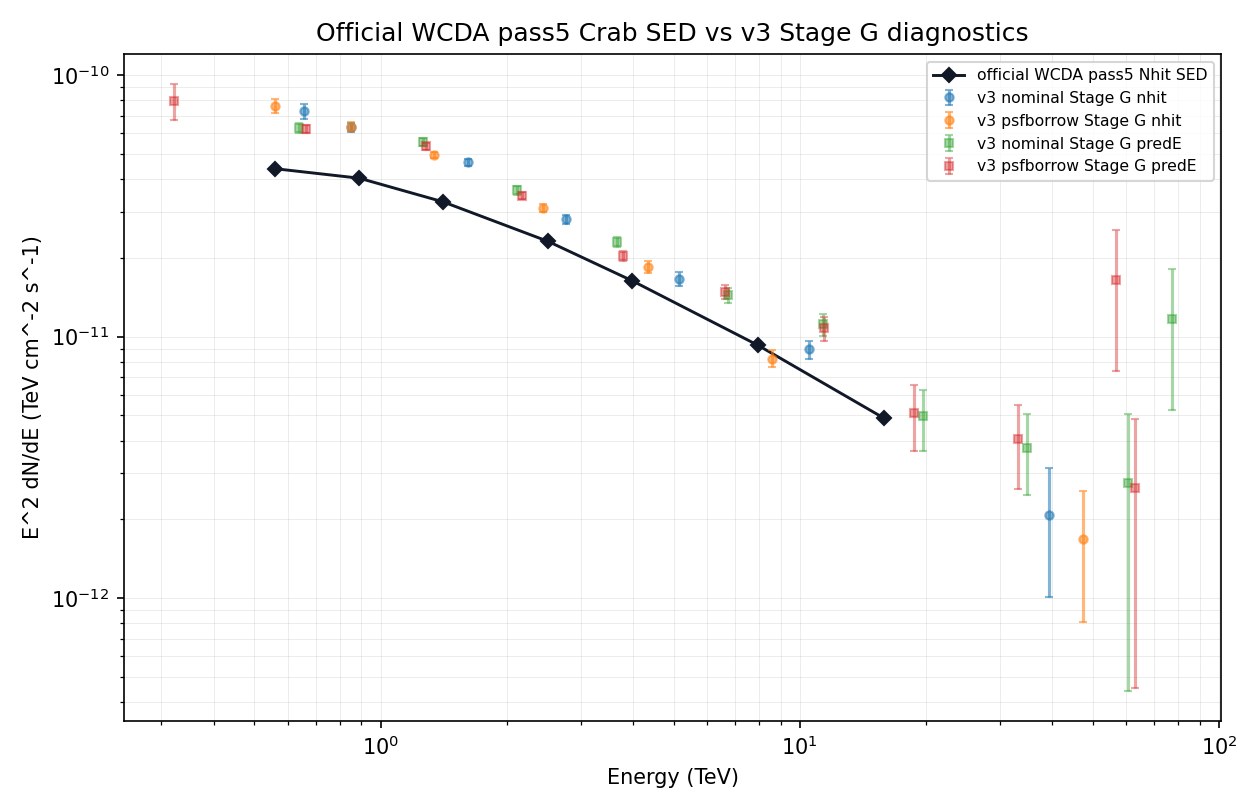
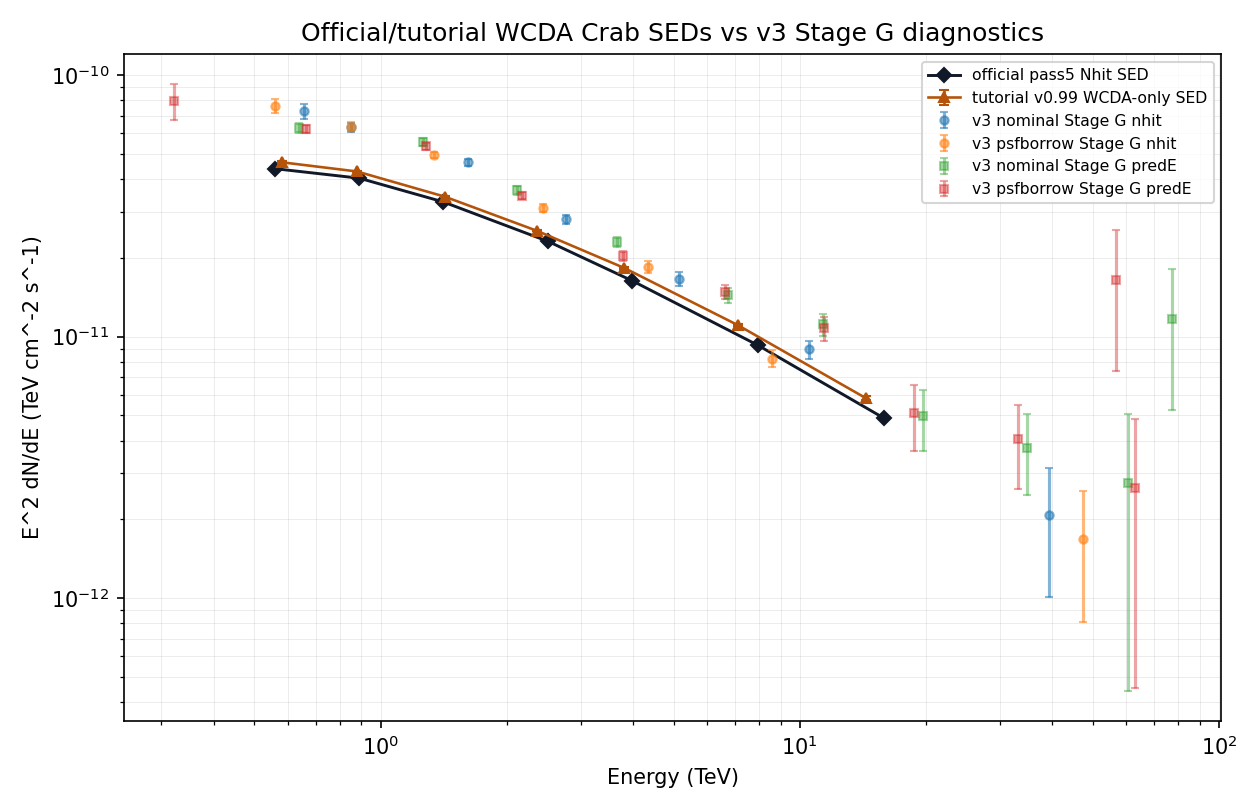
Add tutorial v099 Crab SED to v3 report

diff --git a/apply/report/crab_sed_v3_stage_a_to_g_report.html b/apply/report/crab_sed_v3_stage_a_to_g_report.html
@@ -76,6 +76,12 @@ footer { margin-top:48px; padding-top:18px; border-top:1px solid var(--border); 
       <div class="metric"><div class="label">official pass5 points</div><div class="value">7</div><div class="note">WCDA Nhit SED, 1484.4 days</div></div>
     </div>
     <div class="metric-grid">
+      <div class="metric"><div class="label">tutorial v0.99 points</div><div class="value">7</div><div class="note">WCDA-only SED_Mor Crab_SED</div></div>
+      <div class="metric"><div class="label">tutorial fit cluster</div><div class="value">2832848</div><div class="note">HepJob/HTCondor fit stage</div></div>
+      <div class="metric"><div class="label">tutorial SED cluster</div><div class="value">2832858</div><div class="note">HepJob/HTCondor SED stage</div></div>
+      <div class="metric"><div class="label">tutorial status</div><div class="value">OK</div><div class="note">7 WCDA points, SHA256 verified</div></div>
+    </div>
+    <div class="metric-grid">
       <div class="metric"><div class="label">background systematics</div><div class="value">6</div><div class="note">annulus/order variants</div></div>
       <div class="metric"><div class="label">high-energy predE points</div><div class="value">5</div><div class="note">Stage G high-energy groups</div></div>
       <div class="metric"><div class="label">highest E_eff</div><div class="value">73.82</div><div class="note">TeV, response-weighted</div></div>
@@ -225,6 +231,15 @@ footer { margin-top:48px; padding-top:18px; border-top:1px solid var(--border); 
   </section>
 
   <section>
+    <h2>Tutorial v0.99 WCDA-Only SED</h2>
+    <div class="callout">
+      The second tutorial route <code>v0.99</code> produced seven WCDA-only Crab SED points from <code>results/SED_Mor/Crab_SED.txt</code>. The transferred table reports <code>energy flux ferrL ferrU TS WCDAtag</code>; the flux scale matches <code>E^2 dN/dE</code> in units of <code>1e-14 TeV cm^-2 s^-1</code>, so this report stores the raw scaled values and converts them to physical <code>E^2 dN/dE</code> for overlays. All points are WCDA tagged and Crab component/bin/flux-point validation is OK; ROOT output opens and SHA256 verification passed.
+    </div>
+    <p>Package: <code>/home/lhaaso/liushijie/energy/wcda_crab_sed_v099_20250731_20260616_123624/final_wcda_crab_sed_v099_20250731.tar.gz</code>. Fit cluster: <code>2832848</code>; SED cluster: <code>2832858</code>. README warnings for <code>Halo_2_Ecut</code> and <code>Halo_2_F0</code> are boundary/upper-limit related and do not affect the listed Crab SED/TS status.</p>
+    <div class="table-wrap"><table><thead><tr><th>E TeV</th><th>E2 flux raw</th><th>E2 dN/dE</th><th>err low</th><th>err high</th><th>TS</th><th>WCDAtag</th><th>status</th></tr></thead><tbody><tr><td>0.581</td><td>4642.68</td><td>4.6427e-11</td><td>4.4084e-13</td><td>4.4084e-13</td><td>11740</td><td>1</td><td>ok</td></tr><tr><td>0.879</td><td>4280.92</td><td>4.2809e-11</td><td>2.3824e-13</td><td>2.3824e-13</td><td>37587</td><td>1</td><td>ok</td></tr><tr><td>1.423</td><td>3429.83</td><td>3.4298e-11</td><td>1.3369e-13</td><td>1.3369e-13</td><td>1.06355e+05</td><td>1</td><td>ok</td></tr><tr><td>2.361</td><td>2538.75</td><td>2.5388e-11</td><td>1.4451e-13</td><td>1.4451e-13</td><td>78318</td><td>1</td><td>ok</td></tr><tr><td>3.813</td><td>1830.23</td><td>1.8302e-11</td><td>1.2151e-13</td><td>1.2151e-13</td><td>77558</td><td>1</td><td>ok</td></tr><tr><td>7.106</td><td>1107.71</td><td>1.1077e-11</td><td>1.3309e-13</td><td>1.3309e-13</td><td>33532</td><td>1</td><td>ok</td></tr><tr><td>14.38</td><td>581.427</td><td>5.8143e-12</td><td>1.1811e-13</td><td>1.1811e-13</td><td>12055</td><td>1</td><td>ok</td></tr></tbody></table></div>
+  </section>
+
+  <section>
     <h2>Background Systematics</h2>
     <div class="table-wrap"><table><thead><tr><th>variant</th><th>annulus</th><th>order</th><th>fit family</th><th>B_on</th><th>excess</th><th>sigma</th><th>valid cells</th><th>LogPar phi0</th><th>alpha</th><th>beta</th><th>chi2</th></tr></thead><tbody><tr><td>nominal_shifted_order2</td><td>PSF-shifted</td><td>2</td><td>weighted_least_squares</td><td>92981.3</td><td>17562.7</td><td>55.912</td><td>27</td><td>3.178959e-12</td><td>2.7382</td><td>0.12023</td><td>220.95</td></tr><tr><td>default_annulus_order2</td><td>1.5-3.5 deg</td><td>2</td><td>weighted_least_squares</td><td>93020.5</td><td>17523.5</td><td>55.78</td><td>27</td><td>3.156252e-12</td><td>2.7316</td><td>0.11566</td><td>226.11</td></tr><tr><td>shifted_annulus_order2</td><td>PSF-shifted</td><td>2</td><td>weighted_least_squares</td><td>92981.3</td><td>17562.7</td><td>55.912</td><td>27</td><td>3.178959e-12</td><td>2.7382</td><td>0.12023</td><td>220.95</td></tr><tr><td>default_annulus_order1</td><td>1.5-3.5 deg</td><td>1</td><td>weighted_least_squares</td><td>91826.7</td><td>18717.3</td><td>59.83</td><td>27</td><td>3.136519e-12</td><td>2.7405</td><td>0.09707</td><td>249.65</td></tr><tr><td>shifted_annulus_order1</td><td>PSF-shifted</td><td>1</td><td>weighted_least_squares</td><td>91309.6</td><td>19234.4</td><td>61.595</td><td>27</td><td>3.124701e-12</td><td>2.7422</td><td>0.088671</td><td>271.62</td></tr><tr><td>shifted_annulus_log_link_order2</td><td>PSF-shifted</td><td>2</td><td>poisson_log_link_positive</td><td>96536.9</td><td>14007.1</td><td>44.053</td><td>27</td><td>2.737911e-12</td><td>2.7917</td><td>0.12729</td><td>110.91</td></tr></tbody></table></div>
     <p>High-energy predE groups: <code>[4.0,4.25), [4.25,4.5), [4.5,4.75), [4.75,5.0), [5,6)</code></p>
@@ -253,7 +268,7 @@ footer { margin-top:48px; padding-top:18px; border-top:1px solid var(--border); 
     <div class="callout">
       图表读法：candidate-grid 图通常按行显示 Nhit bin、按列显示 predE bin；白色圆圈表示 <code>rho=6 deg</code> fiducial ROI，中心标记是 Crab。空白或破碎 panel 通常来自 excluded diagnostic/probe cells 的零统计或低统计，不代表 baseline fit cells 全部失败。先看 counts 和 training mask，再看 fitted background、annulus residual，最后看 excess 和 Stage F/G 结果。
     </div>
-    <div class="figure-grid"><figure class="wide"><img src="assets/v3-cell-selection/v3_cell_selection_matrix.png" alt="v3 cell selection matrix"><figcaption><strong>v3 cell selection matrix</strong><span class="figure-note">Rows are Nhit bins and columns are predE bins. The colors separate baseline fit cells, systematics/probe cells, and cells excluded by prefit MC/response rules; this is the selector freeze audit, not a Crab-excess driven selection.</span></figcaption></figure><figure class="wide"><img src="assets/v3-cell-selection/v3_mc_true_energy_overlay.png" alt="MC normalized true-energy distribution overlay"><figcaption><strong>MC normalized true-energy distribution overlay</strong><span class="figure-note">Each colored curve is the normalized MC true-energy distribution for one v3 predE bin. Use it to see energy overlap, median shifts, and whether the mixed binning gives sensible true-energy coverage.</span></figcaption></figure><figure class="wide"><img src="assets/v3-cell-selection/v3_central99_mask.png" alt="MC central-99% selection mask"><figcaption><strong>MC central-99% selection mask</strong><span class="figure-note">This shows which Nhit x predE cells fall inside the MC reconstructed-energy central-99% population. It is the first prefit selector cut and does not use Crab excess or fit residuals.</span></figcaption></figure><figure class="wide"><img src="assets/v3-cell-selection/v3_mc_occupancy_ridge_fraction.png" alt="MC occupancy ridge fraction"><figcaption><strong>MC occupancy ridge fraction</strong><span class="figure-note">Each cell is normalized by the maximum MC count in its Nhit row. The v3 baseline ridge is generated from this prefit occupancy fraction together with central99, MC-count, and high-energy-bin rules; highlighted baseline cells are not chosen from Crab on-source significance.</span></figcaption></figure><figure class="wide"><img src="assets/crab-v3-baseline-fit-cell-skymaps/crab_v3_baseline_fit_counts_grid.png" alt="v3_baseline fit-cell Stage D counts skymap"><figcaption><strong>v3_baseline fit-cell Stage D counts skymap</strong><span class="figure-note">Observed Stage D counts maps for baseline fit cells. The white rho=6 deg circle marks the fiducial ROI and the center marker is Crab; this is the raw spatial distribution before background subtraction.</span></figcaption></figure><figure class="wide"><img src="assets/crab-v3-baseline-fit-cell-skymaps/crab_v3_baseline_fit_excess_grid.png" alt="v3_baseline fit-cell Stage D excess skymap"><figcaption><strong>v3_baseline fit-cell Stage D excess skymap</strong><span class="figure-note">Counts minus the fitted local background for baseline fit cells. A compact positive structure near the center is Crab-like; broad gradients or edge structures point to background-model issues.</span></figcaption></figure><figure class="wide"><img src="assets/crab-v3-baseline-fit-cell-profiles/crab_v3_baseline_fit_ra_normalized_counts_profiles.png" alt="candidate-grid normalized RA-offset counts profiles (v3_baseline fit cells highlighted)"><figcaption><strong>candidate-grid normalized RA-offset counts profiles (v3_baseline fit cells highlighted)</strong><span class="figure-note">For every candidate cell, counts are summed in a |Dec offset|&lt;1 deg band and divided by that cell&#x27;s own peak. Empty panels mean the profile peak is zero or the cell has no usable events in the profile band; highlighted panels are baseline fit cells.</span></figcaption></figure><figure class="wide"><img src="assets/crab-v3-baseline-fit-cell-profiles/crab_v3_baseline_fit_dec_normalized_counts_profiles.png" alt="candidate-grid normalized Dec-offset counts profiles (v3_baseline fit cells highlighted)"><figcaption><strong>candidate-grid normalized Dec-offset counts profiles (v3_baseline fit cells highlighted)</strong><span class="figure-note">For every candidate cell, counts are summed in a |RA offset|&lt;1 deg band and normalized by the cell&#x27;s peak. Compare this with the RA profile to check Dec-direction imbalance and PSF width changes across cells.</span></figcaption></figure><figure class="wide"><img src="assets/crab-v3-baseline-fit-cell-profiles/crab_v3_baseline_fit_ra_normalized_excess_profiles.png" alt="candidate-grid normalized RA-offset excess profiles after background subtraction (v3_baseline fit cells highlighted)"><figcaption><strong>candidate-grid normalized RA-offset excess profiles after background subtraction (v3_baseline fit cells highlighted)</strong><span class="figure-note">Same RA profile diagnostic after subtracting the fitted background. A centered narrow excess is desirable; asymmetric tails indicate residual background or low-stat behavior.</span></figcaption></figure><figure class="wide"><img src="assets/crab-v3-baseline-fit-cell-profiles/crab_v3_baseline_fit_dec_normalized_excess_profiles.png" alt="candidate-grid normalized Dec-offset excess profiles after background subtraction (v3_baseline fit cells highlighted)"><figcaption><strong>candidate-grid normalized Dec-offset excess profiles after background subtraction (v3_baseline fit cells highlighted)</strong><span class="figure-note">Same Dec profile diagnostic after background subtraction. This is the direct check of whether the v3 annulus surface reduces Dec-direction background imbalance around Crab.</span></figcaption></figure><figure class="wide"><img src="../output/stage_d_v3_candidate/runs/v3_stage_d_slurm_42024/roi_counts_grid.png" alt="Stage D counts map grid with rho=6 deg circle"><figcaption><strong>Stage D counts map grid with rho=6 deg circle</strong><span class="figure-note">Observed candidate-grid counts maps. The shared log color scale makes gross background levels comparable across cells, but low-stat cells can look blank because they contain few or no events.</span></figcaption></figure><figure class="wide"><img src="../output/stage_d_v3_candidate/runs/v3_stage_d_slurm_42024/annulus_training_mask_grid.png" alt="Annulus training mask grid"><figcaption><strong>Annulus training mask grid</strong><span class="figure-note">Shows which pixels train the local background surface for each cell. The source/core region is excluded; shifted annuli appear at larger radius for broad-PSF or low-Nhit cells.</span></figcaption></figure><figure class="wide"><img src="../output/stage_d_v3_candidate/runs/v3_stage_d_slurm_42024/roi_background_grid.png" alt="Fitted 2D background surface grid"><figcaption><strong>Fitted 2D background surface grid</strong><span class="figure-note">This is the fitted background expectation, not data and not excess. Stage D fits a quadratic 2D surface on the annulus and extrapolates it across the ROI; smooth surfaces are good, while holes, crescent shapes, or sharp edge features usually flag low-stat or failed diagnostic cells.</span></figcaption></figure><figure class="wide"><img src="../output/stage_d_v3_candidate/runs/v3_stage_d_slurm_42024/annulus_residual_grid.png" alt="Annulus residual grid"><figcaption><strong>Annulus residual grid</strong><span class="figure-note">Residuals in the annulus training region after fitting the background surface. Values should be structureless around zero; coherent RA/Dec patterns mean the quadratic surface is not capturing the local background.</span></figcaption></figure><figure class="wide"><img src="../output/stage_d_v3_candidate/runs/v3_stage_d_slurm_42024/core_background_grid.png" alt="Core extrapolated background grid"><figcaption><strong>Core extrapolated background grid</strong><span class="figure-note">Background expectation restricted to the source/on aperture used for B_on. This view shows exactly what is integrated as background under the Crab region for each cell.</span></figcaption></figure><figure class="wide"><img src="assets/v3-background-systematics/v3_background_before_after_dec_profile.png" alt="Before/after Dec profile comparison for v3 baseline fit cells"><figcaption><strong>Before/after Dec profile comparison for v3 baseline fit cells</strong><span class="figure-note">Compares Dec-direction behavior before and after applying the v3 background method. The goal is to reduce Dec-gradient residuals without erasing the central Crab excess.</span></figcaption></figure><figure class="wide"><img src="assets/v3-background-systematics/v3_background_method_sensitivity_summary.png" alt="Background-method sensitivity summary"><figcaption><strong>Background-method sensitivity summary</strong><span class="figure-note">Compares nominal and alternative background variants such as annulus placement and surface order. Large shifts in flux or sigma indicate background-model systematic risk.</span></figcaption></figure><figure class="wide"><img src="assets/v3-validation/v3_selector_sensitivity_summary.png" alt="Cell-selection sensitivity summary"><figcaption><strong>Cell-selection sensitivity summary</strong><span class="figure-note">Shows how the fit changes under baseline versus expanded/systematic selectors. Stable spectral parameters mean the prefit selector is not driving the result artificially.</span></figcaption></figure><figure class="wide"><img src="assets/v3-validation/v3_response_closure_summary.png" alt="Stage A response histogram self-closure summary"><figcaption><strong>Stage A response histogram self-closure summary</strong><span class="figure-note">Checks whether Stage A response histograms fold back to their MC numerator truth. Large closure errors point to response binning, normalization, or bookkeeping problems.</span></figcaption></figure><figure class="wide"><img src="../output/stage_d_v3_candidate/runs/v3_stage_d_slurm_42024/roi_excess_grid.png" alt="Stage D excess map grid"><figcaption><strong>Stage D excess map grid</strong><span class="figure-note">Candidate-grid counts minus fitted background. Use this after the counts, background, and residual grids: a credible Crab signal should be central and should not be accompanied by annulus residual structure.</span></figcaption></figure><figure><img src="../output/stage_f_v3_baseline/runs/v3_stage_f_slurm_42024/model_counts_vs_excess.png" alt="Stage F model counts vs excess"><figcaption><strong>Stage F model counts vs excess</strong><span class="figure-note">Compares forward-folded model counts to Stage E excess per fit cell. Points far from the one-to-one trend identify cells that dominate chi-square or disagree with the fitted spectrum.</span></figcaption></figure><figure><img src="../output/stage_f_v3_baseline/runs/v3_stage_f_slurm_42024/pull_grid_logpar.png" alt="Stage F pull grid"><figcaption><strong>Stage F pull grid</strong><span class="figure-note">Per-cell fit pull for the preferred spectral model. Random small pulls are expected; coherent regions in Nhit/predE space suggest response, background, or selector systematics.</span></figcaption></figure><figure><img src="../output/stage_g_v3_baseline/runs/v3_stage_g_slurm_42024/sed_points_stage_f_fullarray_pool1.png" alt="Stage G SED points"><figcaption><strong>Stage G SED points</strong><span class="figure-note">Diagnostic SED points built by refitting normalization in reconstructed-energy groups with the Stage F spectral shape fixed. Compare high-energy points with external Crab references and upper limits.</span></figcaption></figure><figure class="wide"><img src="assets/official-pass5/wcda_pass5_vs_v3_stage_g_sed_overlay.png" alt="Official WCDA pass5 SED versus v3 Stage G diagnostics"><figcaption><strong>Official WCDA pass5 SED versus v3 Stage G diagnostics</strong><span class="figure-note">Official WCDA pass5 Nhit SED points from the external LHAASO program overlaid with this report&#x27;s Stage G diagnostic points when local Stage G metadata are available. Official points are shown without error bars because the transferred summary did not include uncertainties.</span></figcaption></figure><figure><img src="../output/stage_g_v3_baseline/runs/v3_stage_g_slurm_42024/sed_points_ratio.png" alt="Stage G SED ratios"><figcaption><strong>Stage G SED ratios</strong><span class="figure-note">Ratio of each diagnostic SED point to the Stage F reference model. A flat ratio near one means Stage G is consistent with the global fit; trends reveal curvature or bin-specific bias.</span></figcaption></figure><figure><img src="../output/stage_g_v3_baseline/runs/v3_stage_g_slurm_42024/sed_point_cell_counts.png" alt="Stage G cell counts per point"><figcaption><strong>Stage G cell counts per point</strong><span class="figure-note">Shows how many cells contribute to each Stage G SED point. High-energy points with few cells should be interpreted more conservatively.</span></figcaption></figure><figure class="wide"><img src="assets/crab-v3-psfborrow-fit-cell-skymaps/crab_v3_psfborrow_fit_counts_grid.png" alt="PSF-borrow fit-cell Stage D counts skymap"><figcaption><strong>PSF-borrow fit-cell Stage D counts skymap</strong><span class="figure-note">Observed counts maps for the PSF borrowing systematic selector. Cells 39/52/65 are included after neighboring-PSF repair, while high-Nhit edge cells 79/80 remain excluded.</span></figcaption></figure><figure class="wide"><img src="assets/crab-v3-psfborrow-fit-cell-skymaps/crab_v3_psfborrow_fit_excess_grid.png" alt="PSF-borrow fit-cell Stage D excess skymap"><figcaption><strong>PSF-borrow fit-cell Stage D excess skymap</strong><span class="figure-note">Counts minus fitted background for the PSF borrowing systematic selector. Compare against the nominal fit-cell excess map to isolate aperture/containment-driven changes.</span></figcaption></figure><figure class="wide"><img src="assets/v3-psfborrow/v3_psfborrow_sed_overlay.png" alt="PSF-borrow versus nominal Stage G SED overlay"><figcaption><strong>PSF-borrow versus nominal Stage G SED overlay</strong><span class="figure-note">Nominal reference Stage G points and PSF borrowing systematic points overlaid. This is a systematic comparison, not a new nominal promotion.</span></figcaption></figure><figure><img src="../output/stage_g_v3_baseline_psfborrow/runs/v3_stage_g_psfborrow_slurm_42029/sed_points_stage_f_fullarray_pool1.png" alt="PSF-borrow Stage G SED points"><figcaption><strong>PSF-borrow Stage G SED points</strong><span class="figure-note">Diagnostic SED points built from the PSF borrowing Stage F spectrum and Stage E signal table.</span></figcaption></figure><figure><img src="../output/stage_g_v3_baseline_psfborrow/runs/v3_stage_g_psfborrow_slurm_42029/sed_points_ratio.png" alt="PSF-borrow Stage G SED ratios"><figcaption><strong>PSF-borrow Stage G SED ratios</strong><span class="figure-note">Ratio of the PSF borrowing diagnostic SED points to the corresponding Stage F reference model.</span></figcaption></figure></div>
+    <div class="figure-grid"><figure class="wide"><img src="assets/v3-cell-selection/v3_cell_selection_matrix.png" alt="v3 cell selection matrix"><figcaption><strong>v3 cell selection matrix</strong><span class="figure-note">Rows are Nhit bins and columns are predE bins. The colors separate baseline fit cells, systematics/probe cells, and cells excluded by prefit MC/response rules; this is the selector freeze audit, not a Crab-excess driven selection.</span></figcaption></figure><figure class="wide"><img src="assets/v3-cell-selection/v3_mc_true_energy_overlay.png" alt="MC normalized true-energy distribution overlay"><figcaption><strong>MC normalized true-energy distribution overlay</strong><span class="figure-note">Each colored curve is the normalized MC true-energy distribution for one v3 predE bin. Use it to see energy overlap, median shifts, and whether the mixed binning gives sensible true-energy coverage.</span></figcaption></figure><figure class="wide"><img src="assets/v3-cell-selection/v3_central99_mask.png" alt="MC central-99% selection mask"><figcaption><strong>MC central-99% selection mask</strong><span class="figure-note">This shows which Nhit x predE cells fall inside the MC reconstructed-energy central-99% population. It is the first prefit selector cut and does not use Crab excess or fit residuals.</span></figcaption></figure><figure class="wide"><img src="assets/v3-cell-selection/v3_mc_occupancy_ridge_fraction.png" alt="MC occupancy ridge fraction"><figcaption><strong>MC occupancy ridge fraction</strong><span class="figure-note">Each cell is normalized by the maximum MC count in its Nhit row. The v3 baseline ridge is generated from this prefit occupancy fraction together with central99, MC-count, and high-energy-bin rules; highlighted baseline cells are not chosen from Crab on-source significance.</span></figcaption></figure><figure class="wide"><img src="assets/crab-v3-baseline-fit-cell-skymaps/crab_v3_baseline_fit_counts_grid.png" alt="v3_baseline fit-cell Stage D counts skymap"><figcaption><strong>v3_baseline fit-cell Stage D counts skymap</strong><span class="figure-note">Observed Stage D counts maps for baseline fit cells. The white rho=6 deg circle marks the fiducial ROI and the center marker is Crab; this is the raw spatial distribution before background subtraction.</span></figcaption></figure><figure class="wide"><img src="assets/crab-v3-baseline-fit-cell-skymaps/crab_v3_baseline_fit_excess_grid.png" alt="v3_baseline fit-cell Stage D excess skymap"><figcaption><strong>v3_baseline fit-cell Stage D excess skymap</strong><span class="figure-note">Counts minus the fitted local background for baseline fit cells. A compact positive structure near the center is Crab-like; broad gradients or edge structures point to background-model issues.</span></figcaption></figure><figure class="wide"><img src="assets/crab-v3-baseline-fit-cell-profiles/crab_v3_baseline_fit_ra_normalized_counts_profiles.png" alt="candidate-grid normalized RA-offset counts profiles (v3_baseline fit cells highlighted)"><figcaption><strong>candidate-grid normalized RA-offset counts profiles (v3_baseline fit cells highlighted)</strong><span class="figure-note">For every candidate cell, counts are summed in a |Dec offset|&lt;1 deg band and divided by that cell&#x27;s own peak. Empty panels mean the profile peak is zero or the cell has no usable events in the profile band; highlighted panels are baseline fit cells.</span></figcaption></figure><figure class="wide"><img src="assets/crab-v3-baseline-fit-cell-profiles/crab_v3_baseline_fit_dec_normalized_counts_profiles.png" alt="candidate-grid normalized Dec-offset counts profiles (v3_baseline fit cells highlighted)"><figcaption><strong>candidate-grid normalized Dec-offset counts profiles (v3_baseline fit cells highlighted)</strong><span class="figure-note">For every candidate cell, counts are summed in a |RA offset|&lt;1 deg band and normalized by the cell&#x27;s peak. Compare this with the RA profile to check Dec-direction imbalance and PSF width changes across cells.</span></figcaption></figure><figure class="wide"><img src="assets/crab-v3-baseline-fit-cell-profiles/crab_v3_baseline_fit_ra_normalized_excess_profiles.png" alt="candidate-grid normalized RA-offset excess profiles after background subtraction (v3_baseline fit cells highlighted)"><figcaption><strong>candidate-grid normalized RA-offset excess profiles after background subtraction (v3_baseline fit cells highlighted)</strong><span class="figure-note">Same RA profile diagnostic after subtracting the fitted background. A centered narrow excess is desirable; asymmetric tails indicate residual background or low-stat behavior.</span></figcaption></figure><figure class="wide"><img src="assets/crab-v3-baseline-fit-cell-profiles/crab_v3_baseline_fit_dec_normalized_excess_profiles.png" alt="candidate-grid normalized Dec-offset excess profiles after background subtraction (v3_baseline fit cells highlighted)"><figcaption><strong>candidate-grid normalized Dec-offset excess profiles after background subtraction (v3_baseline fit cells highlighted)</strong><span class="figure-note">Same Dec profile diagnostic after background subtraction. This is the direct check of whether the v3 annulus surface reduces Dec-direction background imbalance around Crab.</span></figcaption></figure><figure class="wide"><img src="../output/stage_d_v3_candidate/runs/v3_stage_d_slurm_42024/roi_counts_grid.png" alt="Stage D counts map grid with rho=6 deg circle"><figcaption><strong>Stage D counts map grid with rho=6 deg circle</strong><span class="figure-note">Observed candidate-grid counts maps. The shared log color scale makes gross background levels comparable across cells, but low-stat cells can look blank because they contain few or no events.</span></figcaption></figure><figure class="wide"><img src="../output/stage_d_v3_candidate/runs/v3_stage_d_slurm_42024/annulus_training_mask_grid.png" alt="Annulus training mask grid"><figcaption><strong>Annulus training mask grid</strong><span class="figure-note">Shows which pixels train the local background surface for each cell. The source/core region is excluded; shifted annuli appear at larger radius for broad-PSF or low-Nhit cells.</span></figcaption></figure><figure class="wide"><img src="../output/stage_d_v3_candidate/runs/v3_stage_d_slurm_42024/roi_background_grid.png" alt="Fitted 2D background surface grid"><figcaption><strong>Fitted 2D background surface grid</strong><span class="figure-note">This is the fitted background expectation, not data and not excess. Stage D fits a quadratic 2D surface on the annulus and extrapolates it across the ROI; smooth surfaces are good, while holes, crescent shapes, or sharp edge features usually flag low-stat or failed diagnostic cells.</span></figcaption></figure><figure class="wide"><img src="../output/stage_d_v3_candidate/runs/v3_stage_d_slurm_42024/annulus_residual_grid.png" alt="Annulus residual grid"><figcaption><strong>Annulus residual grid</strong><span class="figure-note">Residuals in the annulus training region after fitting the background surface. Values should be structureless around zero; coherent RA/Dec patterns mean the quadratic surface is not capturing the local background.</span></figcaption></figure><figure class="wide"><img src="../output/stage_d_v3_candidate/runs/v3_stage_d_slurm_42024/core_background_grid.png" alt="Core extrapolated background grid"><figcaption><strong>Core extrapolated background grid</strong><span class="figure-note">Background expectation restricted to the source/on aperture used for B_on. This view shows exactly what is integrated as background under the Crab region for each cell.</span></figcaption></figure><figure class="wide"><img src="assets/v3-background-systematics/v3_background_before_after_dec_profile.png" alt="Before/after Dec profile comparison for v3 baseline fit cells"><figcaption><strong>Before/after Dec profile comparison for v3 baseline fit cells</strong><span class="figure-note">Compares Dec-direction behavior before and after applying the v3 background method. The goal is to reduce Dec-gradient residuals without erasing the central Crab excess.</span></figcaption></figure><figure class="wide"><img src="assets/v3-background-systematics/v3_background_method_sensitivity_summary.png" alt="Background-method sensitivity summary"><figcaption><strong>Background-method sensitivity summary</strong><span class="figure-note">Compares nominal and alternative background variants such as annulus placement and surface order. Large shifts in flux or sigma indicate background-model systematic risk.</span></figcaption></figure><figure class="wide"><img src="assets/v3-validation/v3_selector_sensitivity_summary.png" alt="Cell-selection sensitivity summary"><figcaption><strong>Cell-selection sensitivity summary</strong><span class="figure-note">Shows how the fit changes under baseline versus expanded/systematic selectors. Stable spectral parameters mean the prefit selector is not driving the result artificially.</span></figcaption></figure><figure class="wide"><img src="assets/v3-validation/v3_response_closure_summary.png" alt="Stage A response histogram self-closure summary"><figcaption><strong>Stage A response histogram self-closure summary</strong><span class="figure-note">Checks whether Stage A response histograms fold back to their MC numerator truth. Large closure errors point to response binning, normalization, or bookkeeping problems.</span></figcaption></figure><figure class="wide"><img src="../output/stage_d_v3_candidate/runs/v3_stage_d_slurm_42024/roi_excess_grid.png" alt="Stage D excess map grid"><figcaption><strong>Stage D excess map grid</strong><span class="figure-note">Candidate-grid counts minus fitted background. Use this after the counts, background, and residual grids: a credible Crab signal should be central and should not be accompanied by annulus residual structure.</span></figcaption></figure><figure><img src="../output/stage_f_v3_baseline/runs/v3_stage_f_slurm_42024/model_counts_vs_excess.png" alt="Stage F model counts vs excess"><figcaption><strong>Stage F model counts vs excess</strong><span class="figure-note">Compares forward-folded model counts to Stage E excess per fit cell. Points far from the one-to-one trend identify cells that dominate chi-square or disagree with the fitted spectrum.</span></figcaption></figure><figure><img src="../output/stage_f_v3_baseline/runs/v3_stage_f_slurm_42024/pull_grid_logpar.png" alt="Stage F pull grid"><figcaption><strong>Stage F pull grid</strong><span class="figure-note">Per-cell fit pull for the preferred spectral model. Random small pulls are expected; coherent regions in Nhit/predE space suggest response, background, or selector systematics.</span></figcaption></figure><figure><img src="../output/stage_g_v3_baseline/runs/v3_stage_g_slurm_42024/sed_points_stage_f_fullarray_pool1.png" alt="Stage G SED points"><figcaption><strong>Stage G SED points</strong><span class="figure-note">Diagnostic SED points built by refitting normalization in reconstructed-energy groups with the Stage F spectral shape fixed. Compare high-energy points with external Crab references and upper limits.</span></figcaption></figure><figure class="wide"><img src="assets/official-pass5/wcda_pass5_vs_v3_stage_g_sed_overlay.png" alt="Official/tutorial WCDA SEDs versus v3 Stage G diagnostics"><figcaption><strong>Official/tutorial WCDA SEDs versus v3 Stage G diagnostics</strong><span class="figure-note">Official pass5 Nhit SED and tutorial v0.99 WCDA-only SED points overlaid with this report&#x27;s Stage G diagnostics when local Stage G metadata are available. Pass5 points are shown without error bars because the transferred summary did not include uncertainties; v0.99 points use ferrL/ferrU.</span></figcaption></figure><figure><img src="../output/stage_g_v3_baseline/runs/v3_stage_g_slurm_42024/sed_points_ratio.png" alt="Stage G SED ratios"><figcaption><strong>Stage G SED ratios</strong><span class="figure-note">Ratio of each diagnostic SED point to the Stage F reference model. A flat ratio near one means Stage G is consistent with the global fit; trends reveal curvature or bin-specific bias.</span></figcaption></figure><figure><img src="../output/stage_g_v3_baseline/runs/v3_stage_g_slurm_42024/sed_point_cell_counts.png" alt="Stage G cell counts per point"><figcaption><strong>Stage G cell counts per point</strong><span class="figure-note">Shows how many cells contribute to each Stage G SED point. High-energy points with few cells should be interpreted more conservatively.</span></figcaption></figure><figure class="wide"><img src="assets/crab-v3-psfborrow-fit-cell-skymaps/crab_v3_psfborrow_fit_counts_grid.png" alt="PSF-borrow fit-cell Stage D counts skymap"><figcaption><strong>PSF-borrow fit-cell Stage D counts skymap</strong><span class="figure-note">Observed counts maps for the PSF borrowing systematic selector. Cells 39/52/65 are included after neighboring-PSF repair, while high-Nhit edge cells 79/80 remain excluded.</span></figcaption></figure><figure class="wide"><img src="assets/crab-v3-psfborrow-fit-cell-skymaps/crab_v3_psfborrow_fit_excess_grid.png" alt="PSF-borrow fit-cell Stage D excess skymap"><figcaption><strong>PSF-borrow fit-cell Stage D excess skymap</strong><span class="figure-note">Counts minus fitted background for the PSF borrowing systematic selector. Compare against the nominal fit-cell excess map to isolate aperture/containment-driven changes.</span></figcaption></figure><figure class="wide"><img src="assets/v3-psfborrow/v3_psfborrow_sed_overlay.png" alt="PSF-borrow versus nominal Stage G SED overlay"><figcaption><strong>PSF-borrow versus nominal Stage G SED overlay</strong><span class="figure-note">Nominal reference Stage G points and PSF borrowing systematic points overlaid. This is a systematic comparison, not a new nominal promotion.</span></figcaption></figure><figure><img src="../output/stage_g_v3_baseline_psfborrow/runs/v3_stage_g_psfborrow_slurm_42029/sed_points_stage_f_fullarray_pool1.png" alt="PSF-borrow Stage G SED points"><figcaption><strong>PSF-borrow Stage G SED points</strong><span class="figure-note">Diagnostic SED points built from the PSF borrowing Stage F spectrum and Stage E signal table.</span></figcaption></figure><figure><img src="../output/stage_g_v3_baseline_psfborrow/runs/v3_stage_g_psfborrow_slurm_42029/sed_points_ratio.png" alt="PSF-borrow Stage G SED ratios"><figcaption><strong>PSF-borrow Stage G SED ratios</strong><span class="figure-note">Ratio of the PSF borrowing diagnostic SED points to the corresponding Stage F reference model.</span></figcaption></figure></div>
   </section>
 
   <footer>Generated from Stage metadata under <code>/mnt/mydisk/server/projects/energy_reconstruction/apply/output</code>.</footer>

diff --git a/apply/report/build_v3_full_report.py b/apply/report/build_v3_full_report.py
@@ -88,6 +88,11 @@ def parse_args() -> argparse.Namespace:
         type=str,
         default="apply/report/assets/official-pass5/wcda_pass5_vs_v3_stage_g_sed_overlay.png",
     )
+    parser.add_argument(
+        "--official-v099-sed-csv",
+        type=str,
+        default="apply/report/assets/official-v099/wcda_crab_sed_v099_20250731_20260616_123624.csv",
+    )
     return parser.parse_args()
 
 
@@ -334,6 +339,31 @@ def official_pass5_rows(rows: Sequence[Dict[str, str]]) -> List[Dict[str, object
     return out
 
 
+def official_v099_rows(rows: Sequence[Dict[str, str]]) -> List[Dict[str, object]]:
+    out: List[Dict[str, object]] = []
+    for row in rows:
+        energy = finite_float(row.get("energy_tev"))
+        flux_scaled = finite_float(row.get("e2_flux_scaled_1e14_tev_cm2_s"))
+        err_low_scaled = finite_float(row.get("e2_flux_err_low_scaled_1e14"))
+        err_high_scaled = finite_float(row.get("e2_flux_err_high_scaled_1e14"))
+        e2_flux = flux_scaled * 1.0e-14 if flux_scaled is not None else None
+        err_low = err_low_scaled * 1.0e-14 if err_low_scaled is not None else None
+        err_high = err_high_scaled * 1.0e-14 if err_high_scaled is not None else None
+        out.append(
+            {
+                "E TeV": fmt(energy, 4),
+                "E2 flux raw": fmt(flux_scaled, 6),
+                "E2 dN/dE": fmt(e2_flux, 4),
+                "err low": fmt(err_low, 4),
+                "err high": fmt(err_high, 4),
+                "TS": fmt(row.get("ts"), 5),
+                "WCDAtag": row.get("wcda_tag", ""),
+                "status": row.get("crab_status", ""),
+            }
+        )
+    return out
+
+
 def plot_sed_overlay(
     output_path: Path,
     nominal_g: Dict[str, object],
@@ -390,22 +420,39 @@ def plot_sed_overlay(
     return output_path
 
 
-def plot_official_pass5_overlay(
+def plot_official_sed_overlay(
     output_path: Path,
     nominal_g: Dict[str, object],
     psf_g: Dict[str, object],
-    official_rows: Sequence[Dict[str, str]],
+    pass5_rows: Sequence[Dict[str, str]],
+    v099_rows: Sequence[Dict[str, str]],
 ) -> Optional[Path]:
     nominal_points = [p for p in nominal_g.get("points", []) if isinstance(p, dict)] if isinstance(nominal_g.get("points"), list) else []
     psf_points = [p for p in psf_g.get("points", []) if isinstance(p, dict)] if isinstance(psf_g.get("points"), list) else []
-    official_points = []
-    for row in official_rows:
+    pass5_points = []
+    for row in pass5_rows:
         energy = finite_float(row.get("energy_tev"))
         flux = finite_float(row.get("flux_per_tev_cm2_s"))
         if energy is None or flux is None:
             continue
-        official_points.append((energy, energy * energy * flux, str(row.get("nhit_bin", ""))))
-    if not official_points:
+        pass5_points.append((energy, energy * energy * flux))
+    v099_points = []
+    for row in v099_rows:
+        energy = finite_float(row.get("energy_tev"))
+        flux_scaled = finite_float(row.get("e2_flux_scaled_1e14_tev_cm2_s"))
+        err_low_scaled = finite_float(row.get("e2_flux_err_low_scaled_1e14"))
+        err_high_scaled = finite_float(row.get("e2_flux_err_high_scaled_1e14"))
+        if energy is None or flux_scaled is None:
+            continue
+        v099_points.append(
+            (
+                energy,
+                flux_scaled * 1.0e-14,
+                (err_low_scaled or 0.0) * 1.0e-14,
+                (err_high_scaled or 0.0) * 1.0e-14,
+            )
+        )
+    if not pass5_points and not v099_points:
         return None
     try:
         os.environ.setdefault("MPLCONFIGDIR", "/tmp/matplotlib")
@@ -431,9 +478,30 @@ def plot_official_pass5_overlay(
         )
 
     fig, ax = plt.subplots(figsize=(8.4, 5.4), dpi=150)
-    x = np.asarray([p[0] for p in official_points], dtype=np.float64)
-    y = np.asarray([p[1] for p in official_points], dtype=np.float64)
-    ax.plot(x, y, "D-", color="#111827", markersize=5.0, linewidth=1.4, label="official WCDA pass5 Nhit SED")
+    if pass5_points:
+        x = np.asarray([p[0] for p in pass5_points], dtype=np.float64)
+        y = np.asarray([p[1] for p in pass5_points], dtype=np.float64)
+        ax.plot(x, y, "D-", color="#111827", markersize=5.0, linewidth=1.4, label="official pass5 Nhit SED")
+    if v099_points:
+        x = np.asarray([p[0] for p in v099_points], dtype=np.float64)
+        y = np.asarray([p[1] for p in v099_points], dtype=np.float64)
+        yerr = np.vstack(
+            [
+                np.asarray([p[2] for p in v099_points], dtype=np.float64),
+                np.asarray([p[3] for p in v099_points], dtype=np.float64),
+            ]
+        )
+        ax.errorbar(
+            x,
+            y,
+            yerr=yerr,
+            fmt="^-",
+            color="#b45309",
+            markersize=5.0,
+            linewidth=1.25,
+            capsize=2.5,
+            label="tutorial v0.99 WCDA-only SED",
+        )
     for grouping, marker, alpha in [("nhit", "o", 0.55), ("predE", "s", 0.42)]:
         sx, sy, syerr = arrays(nominal_points, grouping)
         if sx.size:
@@ -463,7 +531,7 @@ def plot_official_pass5_overlay(
     ax.set_yscale("log")
     ax.set_xlabel("Energy (TeV)")
     ax.set_ylabel("E^2 dN/dE (TeV cm^-2 s^-1)")
-    ax.set_title("Official WCDA pass5 Crab SED vs v3 Stage G diagnostics")
+    ax.set_title("Official/tutorial WCDA Crab SEDs vs v3 Stage G diagnostics")
     ax.grid(alpha=0.25, which="both", linewidth=0.45)
     ax.legend(fontsize=7.5)
     fig.tight_layout()
@@ -603,6 +671,9 @@ def main() -> None:
     official_pass5_livetime_days = (
         finite_float(official_pass5_raw_rows[0].get("livetime_days")) if official_pass5_raw_rows else None
     )
+    official_v099_csv = abs_path(args.official_v099_sed_csv)
+    official_v099_raw_rows = read_csv_rows(official_v099_csv)
+    official_v099_table_rows = official_v099_rows(official_v099_raw_rows)
 
     totals_e = stage_e.get("totals") if isinstance(stage_e.get("totals"), dict) else {}
     contract_e = stage_e.get("stage_d_contract") if isinstance(stage_e.get("stage_d_contract"), dict) else {}
@@ -699,11 +770,12 @@ def main() -> None:
         stage_g,
         psfborrow_stage_g,
     )
-    official_pass5_overlay_path = plot_official_pass5_overlay(
+    official_pass5_overlay_path = plot_official_sed_overlay(
         abs_path(args.official_pass5_overlay_png),
         stage_g,
         psfborrow_stage_g,
         official_pass5_raw_rows,
+        official_v099_raw_rows,
     )
     psfborrow_run_rows = [
         {
@@ -1147,9 +1219,9 @@ def main() -> None:
         ),
         figure(
             official_pass5_overlay_path or abs_path(args.official_pass5_overlay_png),
-            "Official WCDA pass5 SED versus v3 Stage G diagnostics",
+            "Official/tutorial WCDA SEDs versus v3 Stage G diagnostics",
             wide=True,
-            explanation="Official WCDA pass5 Nhit SED points from the external LHAASO program overlaid with this report's Stage G diagnostic points when local Stage G metadata are available. Official points are shown without error bars because the transferred summary did not include uncertainties.",
+            explanation="Official pass5 Nhit SED and tutorial v0.99 WCDA-only SED points overlaid with this report's Stage G diagnostics when local Stage G metadata are available. Pass5 points are shown without error bars because the transferred summary did not include uncertainties; v0.99 points use ferrL/ferrU.",
         ),
         figure(
             stage_g_dir / "sed_points_ratio.png",
@@ -1269,6 +1341,12 @@ footer {{ margin-top:48px; padding-top:18px; border-top:1px solid var(--border);
       <div class="metric"><div class="label">official pass5 points</div><div class="value">{fmt_int(len(official_pass5_table_rows))}</div><div class="note">WCDA Nhit SED, {fmt(official_pass5_livetime_days, 5)} days</div></div>
     </div>
     <div class="metric-grid">
+      <div class="metric"><div class="label">tutorial v0.99 points</div><div class="value">{fmt_int(len(official_v099_table_rows))}</div><div class="note">WCDA-only SED_Mor Crab_SED</div></div>
+      <div class="metric"><div class="label">tutorial fit cluster</div><div class="value">2832848</div><div class="note">HepJob/HTCondor fit stage</div></div>
+      <div class="metric"><div class="label">tutorial SED cluster</div><div class="value">2832858</div><div class="note">HepJob/HTCondor SED stage</div></div>
+      <div class="metric"><div class="label">tutorial status</div><div class="value">OK</div><div class="note">7 WCDA points, SHA256 verified</div></div>
+    </div>
+    <div class="metric-grid">
       <div class="metric"><div class="label">background systematics</div><div class="value">{fmt_int(len(background_systematics_rows))}</div><div class="note">annulus/order variants</div></div>
       <div class="metric"><div class="label">high-energy predE points</div><div class="value">{fmt_int(high_energy_ref.get('high_energy_points') if isinstance(high_energy_ref, dict) else None)}</div><div class="note">Stage G high-energy groups</div></div>
       <div class="metric"><div class="label">highest E_eff</div><div class="value">{fmt(highest_high_energy_tev, 4)}</div><div class="note">TeV, response-weighted</div></div>
@@ -1338,6 +1416,15 @@ footer {{ margin-top:48px; padding-top:18px; border-top:1px solid var(--border);
     </div>
     <p>Source package: <code>wcda_crab_sed_pass5_20260616_104941/final_wcda_crab_sed_pass5.tar.gz</code>; source table: <code>wcda_crab_sed_pass5_20260616_104941/final_wcda_crab_sed_pass5/sed_J0534+2200.txt</code>.</p>
     {table_from_rows(official_pass5_table_rows, ['E TeV', 'dN/dE', 'E2 dN/dE', 'TS', 'Nhit', 'Error_status', 'upper limit', 'stderr empty'])}
+  </section>
+
+  <section>
+    <h2>Tutorial v0.99 WCDA-Only SED</h2>
+    <div class="callout">
+      The second tutorial route <code>v0.99</code> produced seven WCDA-only Crab SED points from <code>results/SED_Mor/Crab_SED.txt</code>. The transferred table reports <code>energy flux ferrL ferrU TS WCDAtag</code>; the flux scale matches <code>E^2 dN/dE</code> in units of <code>1e-14 TeV cm^-2 s^-1</code>, so this report stores the raw scaled values and converts them to physical <code>E^2 dN/dE</code> for overlays. All points are WCDA tagged and Crab component/bin/flux-point validation is OK; ROOT output opens and SHA256 verification passed.
+    </div>
+    <p>Package: <code>/home/lhaaso/liushijie/energy/wcda_crab_sed_v099_20250731_20260616_123624/final_wcda_crab_sed_v099_20250731.tar.gz</code>. Fit cluster: <code>2832848</code>; SED cluster: <code>2832858</code>. README warnings for <code>Halo_2_Ecut</code> and <code>Halo_2_F0</code> are boundary/upper-limit related and do not affect the listed Crab SED/TS status.</p>
+    {table_from_rows(official_v099_table_rows, ['E TeV', 'E2 flux raw', 'E2 dN/dE', 'err low', 'err high', 'TS', 'WCDAtag', 'status'])}
   </section>
 
   <section>

diff --git a/apply/devlog.md b/apply/devlog.md
@@ -6,6 +6,7 @@ Detailed design rationale belongs in `report/` or `docs/`. Authoritative history
 
 ---
 
+- **energy** · 2026-06-16 13:26 · [uncommitted] Add tutorial v0.99 WCDA-only Crab SED points and overlay to the v3 integrated report.
 - **energy** · 2026-06-16 12:20 · [876ef99] Add official WCDA pass5 Crab SED points and overlay to the v3 integrated report.
 - **energy** · 2026-06-13 00:17 · [uncommitted] Add v3 PSF borrowing systematic Stage B variant, D-G Slurm chain, selector, and integrated report comparison.
 - **energy** · 2026-06-12 23:38 · [7e04701] Document v3 cell 39 high-theta PSF support audit and repair options.
